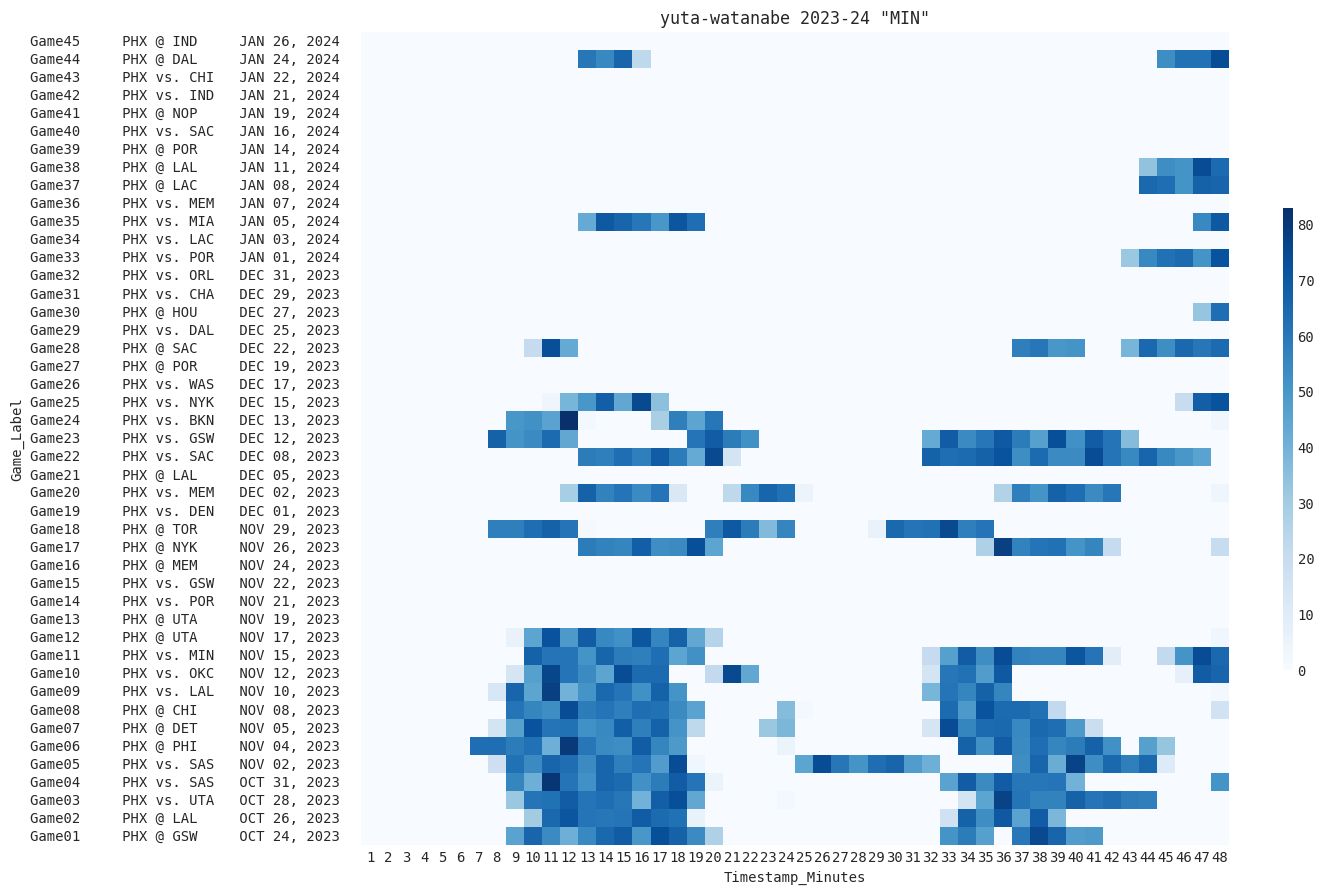
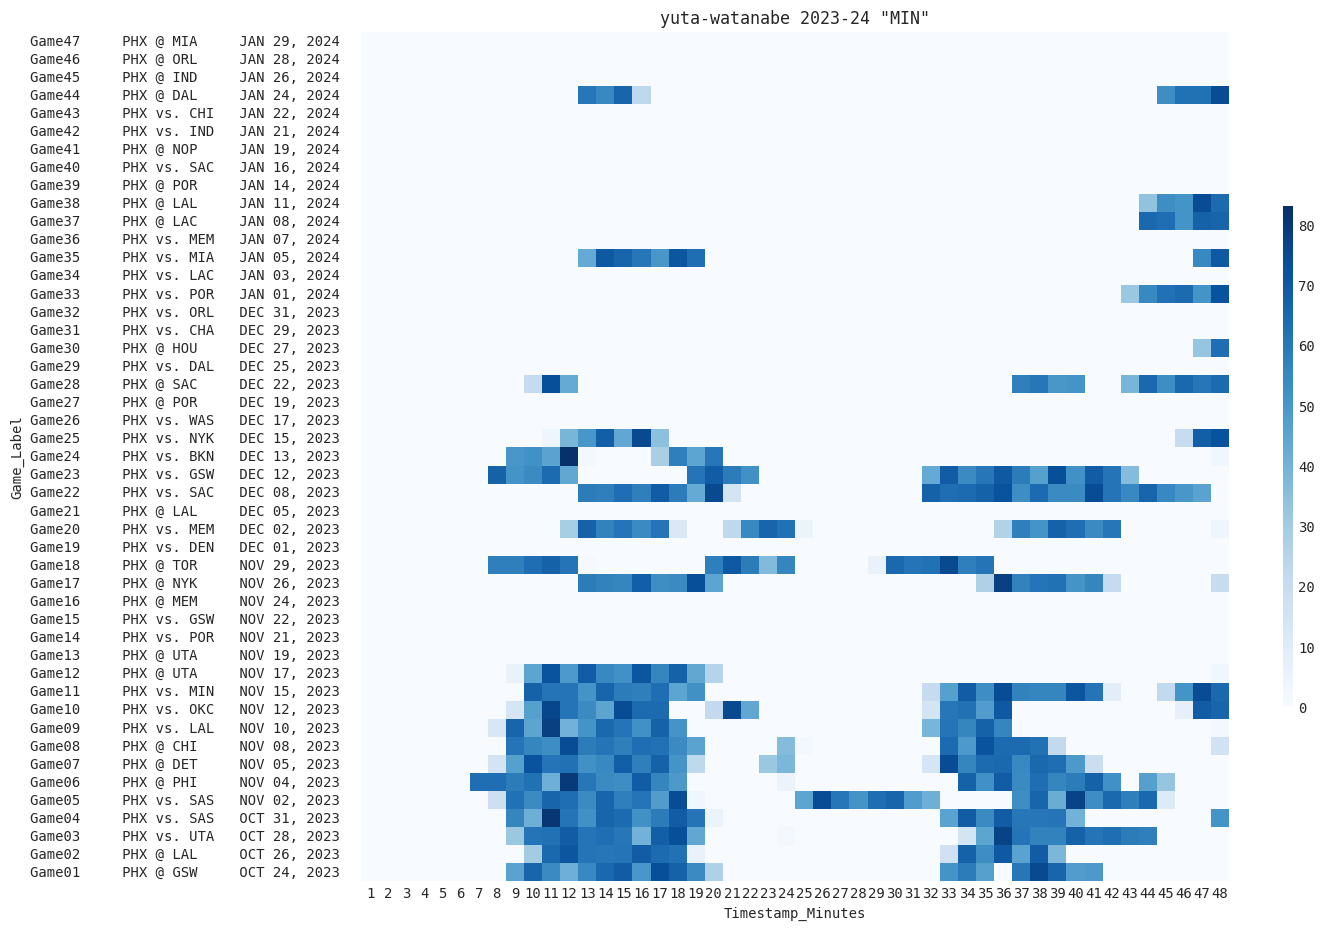
Update the stats.

diff --git a/2023-24.md b/2023-24.md
@@ -1,5 +1,5 @@
 ## 活躍状況 2023-24 シーズン
-> Last Update: 2024-01-28 22:53:59
+> Last Update: 2024-01-30 23:08:15
 
 - 渡邊雄太 Yuta Watanabe
   - 出場時間帯
